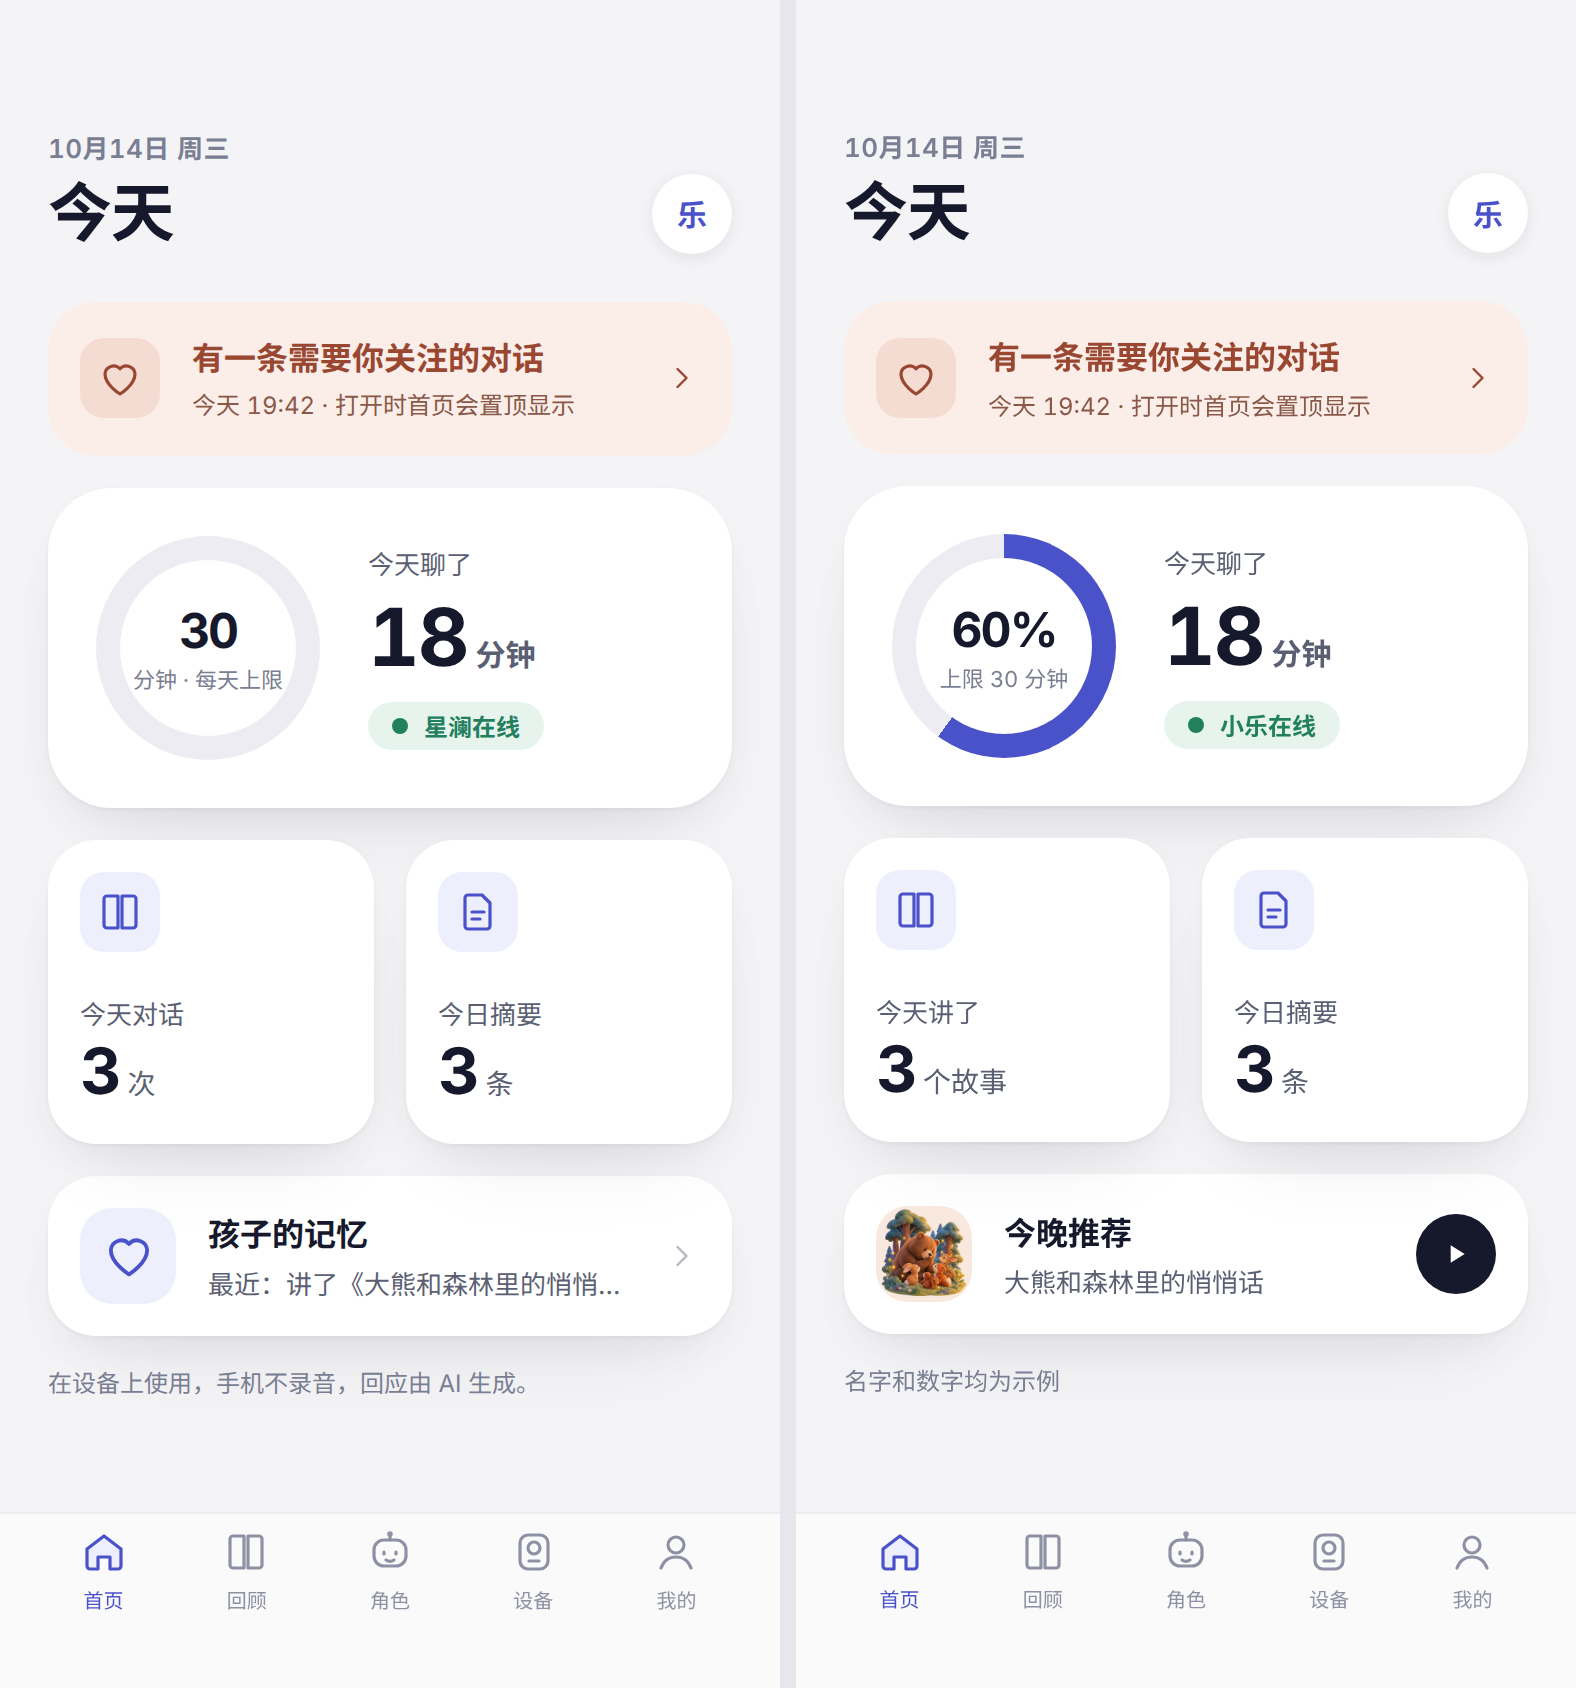
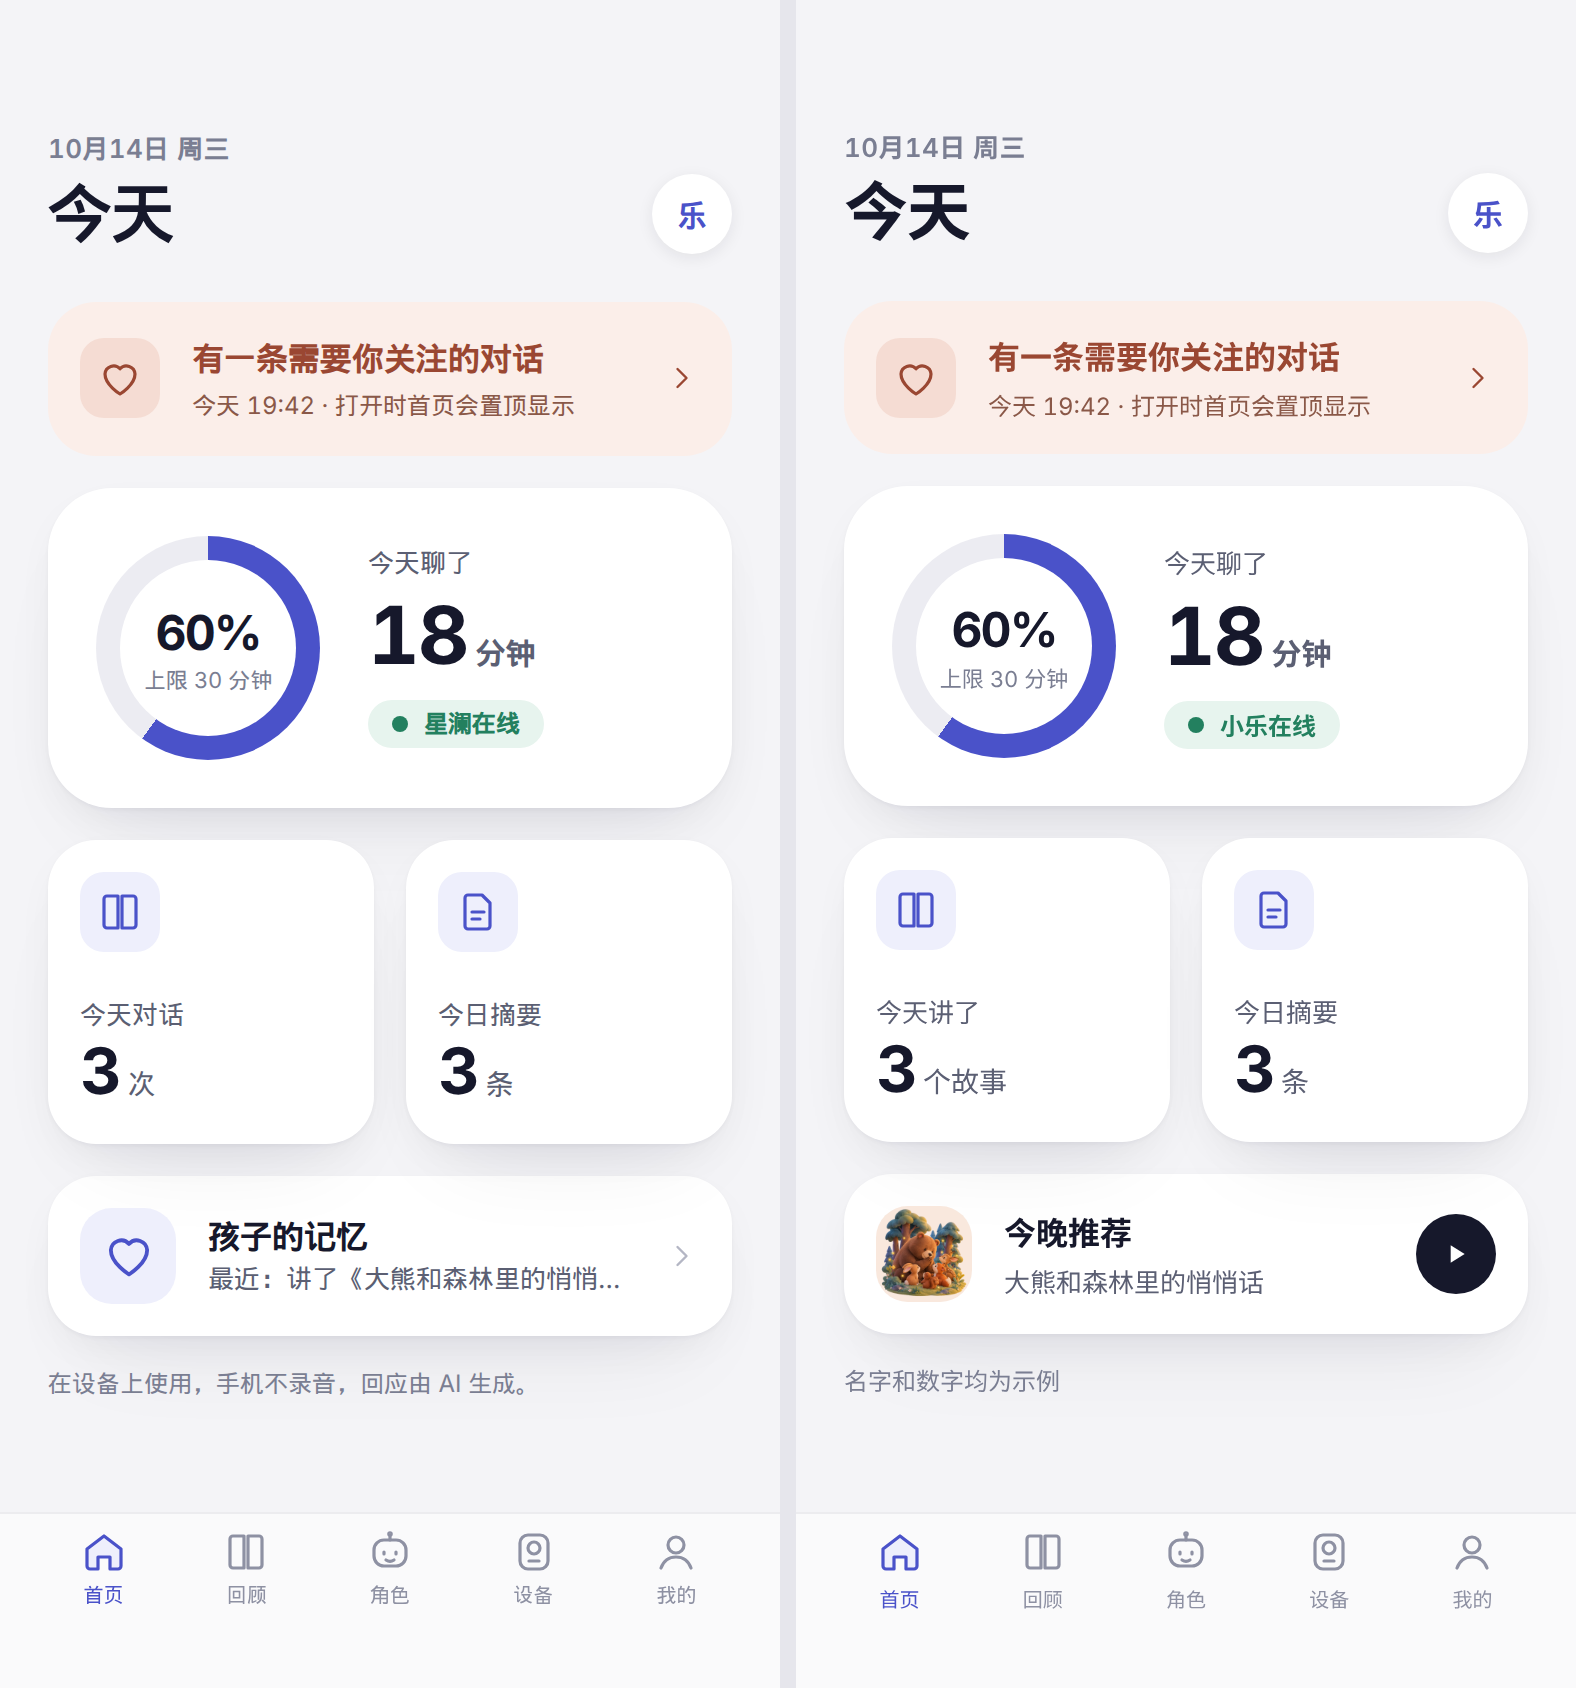
fix(miniprogram): restore fact delete and match the usage rings
Each archive fact can be removed again, and clearing the archive still
asks first. A missing per-session cap displays 15 minutes without
rewriting the signed empty value. The device ring fills by today's
share of the daily budget, and the home ring center shows that percent
plus the daily cap.

diff --git a/apps/miniprogram/pages/device/index.js b/apps/miniprogram/pages/device/index.js
@@ -28,7 +28,7 @@ const {
   nightModeQuietHoursLabel,
   confirmUnusualQuietHours,
 } = require("../../utils/quiet-hours");
-const { offersSafetySubscribe } = require("../../utils/trial-device-card");
+const { offersSafetySubscribe, usageRingStyle } = require("../../utils/trial-device-card");
 const { PRIVACY_LINE } = require("../../utils/child-memory");
 const { SUBSCRIPTION_PUSH_ENABLED } = require("../../config");
 
@@ -273,6 +273,19 @@ function offlineStoriesFrom(result) {
     .map((item) => ({ id: item.id, title: item.title }));
 }
 
+function sessionMinuteValue(limits) {
+  if (!limits || limits.maxSessionMinutes == null) return SESSION_MINUTES_DEFAULT;
+  return limits.maxSessionMinutes;
+}
+
+function limitsPresentation(sessionLimits, dailyUsage) {
+  const used = dailyUsage && Number.isInteger(dailyUsage.usedMinutes) ? dailyUsage.usedMinutes : null;
+  return {
+    sessionMinuteValue: sessionMinuteValue(sessionLimits),
+    usageRingStyle: usageRingStyle(used, sessionLimits?.dailyChatMinutes ?? null),
+  };
+}
+
 function dailyChatFrom(result) {
   const limits = result.status === "fulfilled" ? result.value : null;
   const used = limits?.today_used_minutes;
@@ -329,6 +342,7 @@ Page({
     degradation: null,
     sensitiveEntries: [],
     sessionLimits: null,
+    ...limitsPresentation(null, null),
     dailyUsage: null,
     dailyChatSlider: null,
     trialSettingsVisible: false,
@@ -464,6 +478,7 @@ Page({
       degradation: null,
       sensitiveEntries: [],
       sessionLimits: null,
+      ...limitsPresentation(null, null),
       dailyUsage: null,
       dailyChatSlider: null,
       trialSettingsVisible: false,
@@ -646,7 +661,14 @@ Page({
       }
       const refreshed = profile ? sessionLimitsFromProfile(profile) : null;
       this.setData({
-        ...(refreshed ? { profile, sessionLimits: refreshed, trialSettingsVisible: true } : {}),
+        ...(refreshed
+          ? {
+              profile,
+              sessionLimits: refreshed,
+              trialSettingsVisible: true,
+              ...limitsPresentation(refreshed, this.data.dailyUsage),
+            }
+          : {}),
       });
       wx.showToast({ title: "已保存", icon: "success" });
     } catch (error) {
@@ -971,6 +993,7 @@ Page({
       const accountCompanionId =
         typeof accountProfile?.companion_id === "string" ? accountProfile.companion_id : "";
       const sessionLimits = sessionLimitsFromProfile(profile);
+      const daily = dailyChatFrom(limitsResult);
       const limitsMinuteOptions =
         !sessionLimits?.maxSessionMinutes ||
         SESSION_MINUTE_OPTIONS.includes(sessionLimits.maxSessionMinutes)
@@ -1004,7 +1027,8 @@ Page({
         degradation: profile ? degradationFor(profile) : null,
         sensitiveEntries: profile ? sensitiveEntriesFor(profile) : [],
         sessionLimits,
-        ...dailyChatFrom(limitsResult),
+        ...daily,
+        ...limitsPresentation(sessionLimits, daily.dailyUsage),
         trialSettingsVisible: Boolean(sessionLimits),
         offlineStories: offlineStoriesFrom(storiesResult),
         limitsMinuteOptions,
@@ -1321,6 +1345,7 @@ Page({
       const candidates = resolutionNext ? resolutionNext.candidate_subjects || [] : [];
       const speakerLabel = currentUserLabel(nextProfile, candidates);
       const subjectAliasLabel = readSubjectLabel(this.data.binding);
+      const sessionLimits = sessionLimitsFromProfile(nextProfile);
       this.setData({
         profile: nextProfile,
         resolution: resolutionNext,
@@ -1334,7 +1359,8 @@ Page({
         ),
         degradation: degradationFor(nextProfile),
         sensitiveEntries: sensitiveEntriesFor(nextProfile),
-        sessionLimits: sessionLimitsFromProfile(nextProfile),
+        sessionLimits,
+        ...limitsPresentation(sessionLimits, this.data.dailyUsage),
         currentUserLabel: speakerLabel ? subjectAliasLabel || speakerLabel : "未确认",
         currentUserLabelConfirmed: Boolean(speakerLabel),
       });
@@ -1468,7 +1494,9 @@ Page({
       }
       const refreshed = profile ? sessionLimitsFromProfile(profile) : null;
       this.setData({
-        ...(refreshed ? { profile, sessionLimits: refreshed } : {}),
+        ...(refreshed
+          ? { profile, sessionLimits: refreshed, ...limitsPresentation(refreshed, this.data.dailyUsage) }
+          : {}),
         limitsSheetVisible: false,
       });
       this._syncSheetOpen();

diff --git a/apps/miniprogram/tests/child-memory-v4.test.js b/apps/miniprogram/tests/child-memory-v4.test.js
@@ -25,7 +25,7 @@ test("the archive leads the page with the design's three labels and footer, summ
     const text = visibleText(renderPage("pages/child-memory/index", harness.page.data, { tabBar: false }));
     assert.match(
       text,
-      /^长期记住的事 乐乐的记忆 机器人长期只记住这三件事，用来更自然地和孩子聊天。 称呼 乐乐 孩子喜欢被这样叫 喜好 恐龙、画画 聊天时会提到 宠物名 小乐宝 讲故事时可能出现 除这三项外，不长期保存其他信息。 长期记忆 开启后，Memoria 会记住孩子提到的称呼、喜好和宠物名。你可以随时关闭，关闭后不再记新的内容。 清空长期记忆 近期摘要 讲了/,
+      /^长期记住的事 乐乐的记忆 机器人长期只记住这三件事，用来更自然地和孩子聊天。 称呼 乐乐 孩子喜欢被这样叫 喜好 恐龙 画画 聊天时会提到 宠物名 小乐宝 讲故事时可能出现 除这三项外，不长期保存其他信息。 长期记忆 开启后，Memoria 会记住孩子提到的称呼、喜好和宠物名。你可以随时关闭，关闭后不再记新的内容。 清空长期记忆 近期摘要 讲了/,
     );
     assert.doesNotMatch(text, /兴趣|小名|共 \d+ 条/);
   } finally {
@@ -33,13 +33,13 @@ test("the archive leads the page with the design's three labels and footer, summ
   }
 });
 
-test("an open long-term memory shows one fact card per field, joining values", async () => {
+test("an open long-term memory shows each fact on its own row", async () => {
   const harness = await openChildMemory(fx.archiveApi);
   try {
     const text = visibleText(renderPage("pages/child-memory/index", harness.page.data, { tabBar: false }));
     assert.match(
       text,
-      /称呼 乐乐 孩子喜欢被这样叫 喜好 恐龙、画画 聊天时会提到 宠物名 小乐宝 讲故事时可能出现 除这三项外，不长期保存其他信息。/,
+      /称呼 乐乐 孩子喜欢被这样叫 喜好 恐龙 画画 聊天时会提到 宠物名 小乐宝 讲故事时可能出现 除这三项外，不长期保存其他信息。/,
     );
     assert.doesNotMatch(text.split("近期摘要")[0], /10 月/);
   } finally {

diff --git a/apps/miniprogram/tests/home-v4-dashboard.test.js b/apps/miniprogram/tests/home-v4-dashboard.test.js
@@ -39,7 +39,7 @@ test("home ring shows the daily budget without inventing minutes the ledger coul
   assert.equal(data.usageLimitMinutes, 30);
   const html = renderPage("pages/home/index", data);
   const text = visibleText(html);
-  assert.match(text, /30 分钟 · 每天上限 今天聊了 用量暂未统计/);
+  assert.match(text, /上限 30 分钟 今天聊了 用量暂未统计/);
   assert.doesNotMatch(text, /\d+%|单次上限/);
   assert.match(html, /conic-gradient\(#4A52C9 0% 0%, #ECECF2 0% 100%\)/);
 });
@@ -75,7 +75,7 @@ test("home ring fills the used share of the daily budget", async () => {
   assert.equal(data.usageFillPercent, 13);
   const html = renderPage("pages/home/index", data);
   assert.match(html, /conic-gradient\(#4A52C9 0% 13%, #ECECF2 13% 100%\)/);
-  assert.match(visibleText(html), /今天聊了 4 分钟/);
+  assert.match(visibleText(html), /13% 上限 30 分钟 今天聊了 4 分钟/);
 });
 
 test("home shows today's minutes only when the session-limits read carries them", async () => {
@@ -93,8 +93,8 @@ test("home shows today's minutes only when the session-limits read carries them"
   assert.equal(data.usageUsedMinutes, 18);
   const html = renderPage("pages/home/index", data);
   const text = visibleText(html);
-  assert.match(text, /30 分钟 · 每天上限 今天聊了 18 分钟/);
-  assert.doesNotMatch(text, /用量暂未统计|\d+%/);
+  assert.match(text, /60% 上限 30 分钟 今天聊了 18 分钟/);
+  assert.doesNotMatch(text, /用量暂未统计/);
   assert.equal(data.usageFillPercent, 60);
   assert.match(html, /conic-gradient\(#4A52C9 0% 60%, #ECECF2 60% 100%\)/);
 

diff --git a/apps/miniprogram/utils/trial-device-card.js b/apps/miniprogram/utils/trial-device-card.js
@@ -16,6 +16,16 @@ function usageRingStyle(usedMinutes, limitMinutes) {
   return `background:conic-gradient(#4A52C9 0% ${percent}%, #ECECF2 ${percent}% 100%)`;
 }
 
+function usageCenterCopy(usedMinutes, limitMinutes) {
+  const hasLimit = Number.isInteger(limitMinutes) && limitMinutes > 0;
+  const known = Number.isInteger(usedMinutes) && usedMinutes >= 0;
+  if (!hasLimit) return { usageCenterLabel: "未设置", usageCapLabel: "每天上限" };
+  return {
+    usageCenterLabel: known ? `${usageFillPercent(usedMinutes, limitMinutes)}%` : "",
+    usageCapLabel: `上限 ${limitMinutes} 分钟`,
+  };
+}
+
 function buildTrialDeviceCard({ online, runtimeProfile, usedMinutes } = {}) {
   const limits = sessionLimitsFromProfile(runtimeProfile);
   const usageKnown = Number.isInteger(usedMinutes) && usedMinutes >= 0;
@@ -30,6 +40,7 @@ function buildTrialDeviceCard({ online, runtimeProfile, usedMinutes } = {}) {
     usageLimitMinutes,
     usageFillPercent: usageFillPercent(usageUsedMinutes, usageLimitMinutes),
     usageRingStyle: usageRingStyle(usageUsedMinutes, usageLimitMinutes),
+    ...usageCenterCopy(usageUsedMinutes, usageLimitMinutes),
     quietHoursLabel: limits?.quietHoursLabel || "",
     nightModeOn: Boolean(limits?.quietStart && limits?.quietEnd),
   };
@@ -87,6 +98,7 @@ module.exports = {
   buildTrialDeviceCard,
   usageFillPercent,
   usageRingStyle,
+  usageCenterCopy,
   hasUnreadSafetyAlert,
   memoryPreviewItems,
   offersSafetySubscribe,

diff --git a/apps/miniprogram/tests/device-v4.test.js b/apps/miniprogram/tests/device-v4.test.js
@@ -101,7 +101,7 @@ test("a missing per-session cap displays 15 minutes and the slider rests on 15",
   }
 });
 
-test("the usage screen reads 未设置 when the signed profile has quiet hours but no cap", async () => {
+test("a quiet-only profile keeps the signed cap empty and shows the 15 minute fallback", async () => {
   const quietOnly = {
     ...fx.RUNTIME_PROFILE,
     obligations: fx.RUNTIME_PROFILE.obligations.filter((item) => item.code === "QUIET_HOURS"),
@@ -111,9 +111,9 @@ test("the usage screen reads 未设置 when the signed profile has quiet hours b
     const data = await harness.run();
     assert.equal(data.sessionLimits.maxSessionMinutes, null);
     const text = visibleText(renderPage("pages/device/index", data));
-    assert.match(text, /未设置 单次上限 用量暂未统计/);
-    assert.match(text, /单次上限 未设置 10 分钟 30 分钟/);
-    assert.doesNotMatch(text, /单次上限 15 分钟|单次上限 30 分钟/);
+    assert.match(text, /15 分钟 · 单次上限 用量暂未统计/);
+    assert.match(text, /单次上限 15 分钟 10 分钟 30 分钟/);
+    assert.doesNotMatch(text, /未设置 单次上限|单次上限 未设置/);
   } finally {
     harness.restore();
   }

diff --git a/apps/miniprogram/pages/home/index.js b/apps/miniprogram/pages/home/index.js
@@ -25,6 +25,7 @@ const {
   buildTrialDeviceCard,
   memoryPreviewItems,
   pinnedAlertMeta,
+  usageCenterCopy,
   usageRingStyle,
 } = require("../../utils/trial-device-card");
 
@@ -101,6 +102,7 @@ function emptyDashboard() {
     usageLimitMinutes: null,
     usageFillPercent: 0,
     usageRingStyle: usageRingStyle(null, null),
+    ...usageCenterCopy(null, null),
     summaryCount: 0,
     avatarGlyph: "M",
     subscriptionPushEnabled: SUBSCRIPTION_PUSH_ENABLED,
@@ -606,6 +608,8 @@ Page({
       usageLimitMinutes: trialCard.usageLimitMinutes,
       usageFillPercent: trialCard.usageFillPercent,
       usageRingStyle: trialCard.usageRingStyle,
+      usageCenterLabel: trialCard.usageCenterLabel,
+      usageCapLabel: trialCard.usageCapLabel,
       quietHoursLabel: trialCard.quietHoursLabel,
       nightModeOn: trialCard.nightModeOn,
       showSafetyNightCard: offerSafety,

diff --git a/apps/miniprogram/scripts/mp-harness/render.js b/apps/miniprogram/scripts/mp-harness/render.js
@@ -274,6 +274,12 @@ function htmlAttrs(attrs, scope, ctx, extraStyle = "") {
   if (style) out.push(`style="${escapeHtml(style)}"`);
   if (attrs.id) out.push(`id="${escapeHtml(interpolate(attrs.id, scope))}"`);
   if (Object.keys(attrs).some((key) => /^(bind|catch):?tap$/.test(key))) out.push("data-tap");
+  for (const [key, raw] of Object.entries(attrs)) {
+    if (!key.startsWith("data-")) continue;
+    const value = interpolate(raw, scope);
+    if (value == null || value === false) continue;
+    out.push(`${key}="${escapeHtml(String(value))}"`);
+  }
   return out.length ? ` ${out.join(" ")}` : "";
 }
 

diff --git a/apps/miniprogram/utils/child-memory.js b/apps/miniprogram/utils/child-memory.js
@@ -135,6 +135,9 @@ function archiveFactCards(groups) {
     field: group.field,
     label: group.label,
     value: group.items.map((item) => item.text).filter(Boolean).join("、"),
+    facts: group.items
+      .filter((item) => item && item.recordId && item.text)
+      .map((item) => ({ recordId: item.recordId, text: item.text })),
     caption: ARCHIVE_FIELD_CAPTIONS[group.field] || "",
   }));
 }
